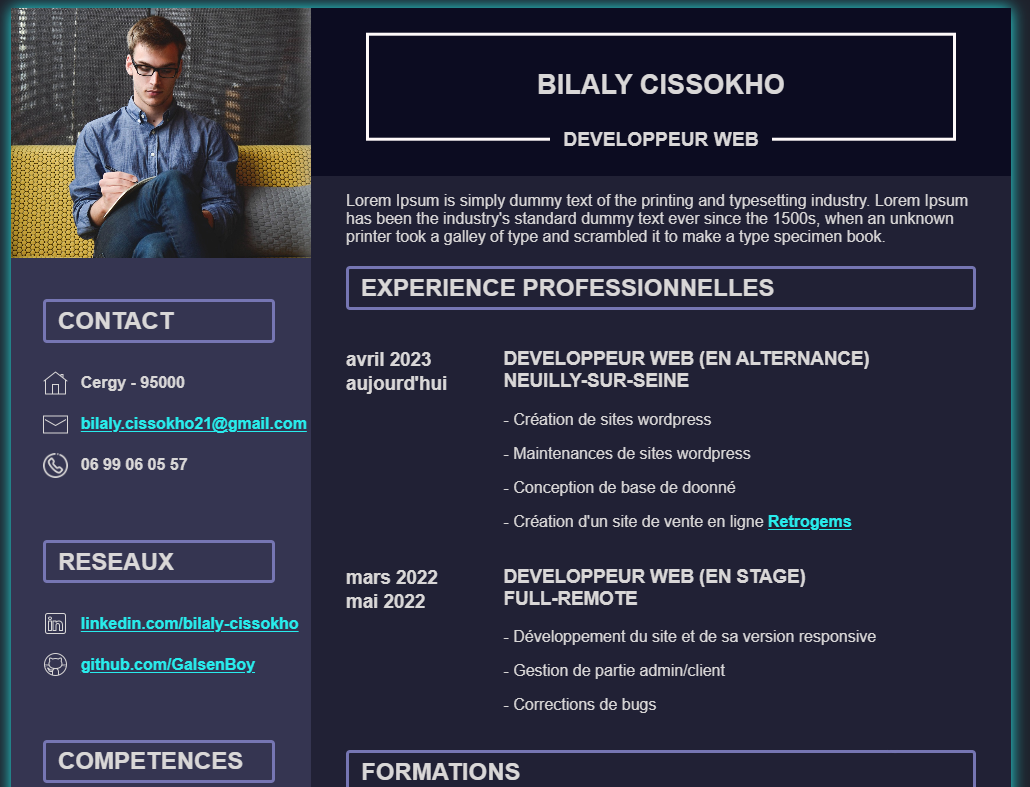
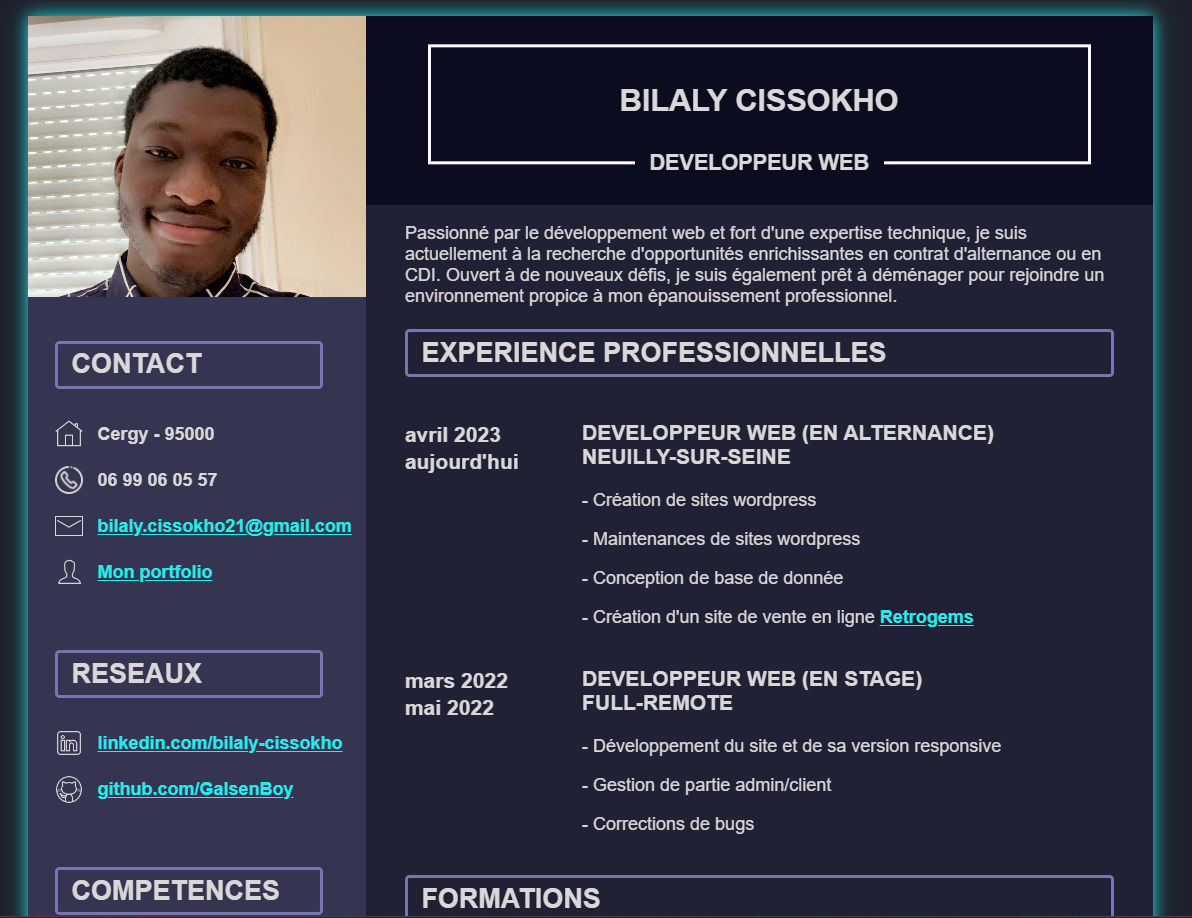
projet cv à jour

Changed region(s): [[0.0, 0.0, 1.0, 1.0], [0.4971, 0.0915, 0.7767, 0.122], [0.3417, 0.7014, 0.435, 0.7929]]

diff --git a/src/data/ProjectData.ts b/src/data/ProjectData.ts
@@ -3,7 +3,7 @@ export const projects = [
     id: 1,
     name: "/capcv.png",
     valeur: "CURRICULUM VITAE",
-    to: "https://cvbilaly.netlify.app/",
+    to: "https://bilaly.vercel.app/",
   },
   {
     id: 2,
